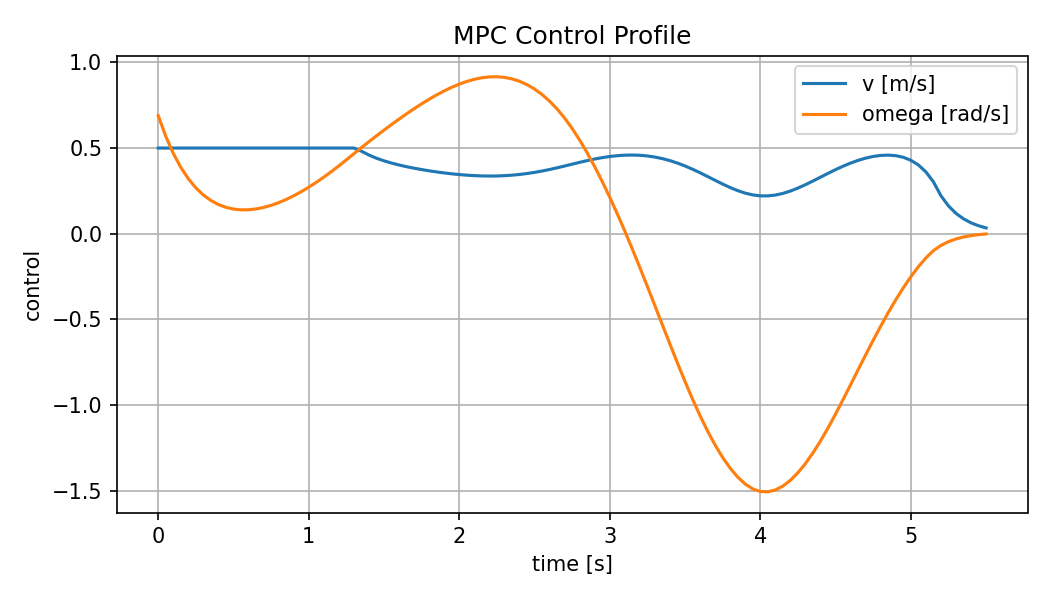
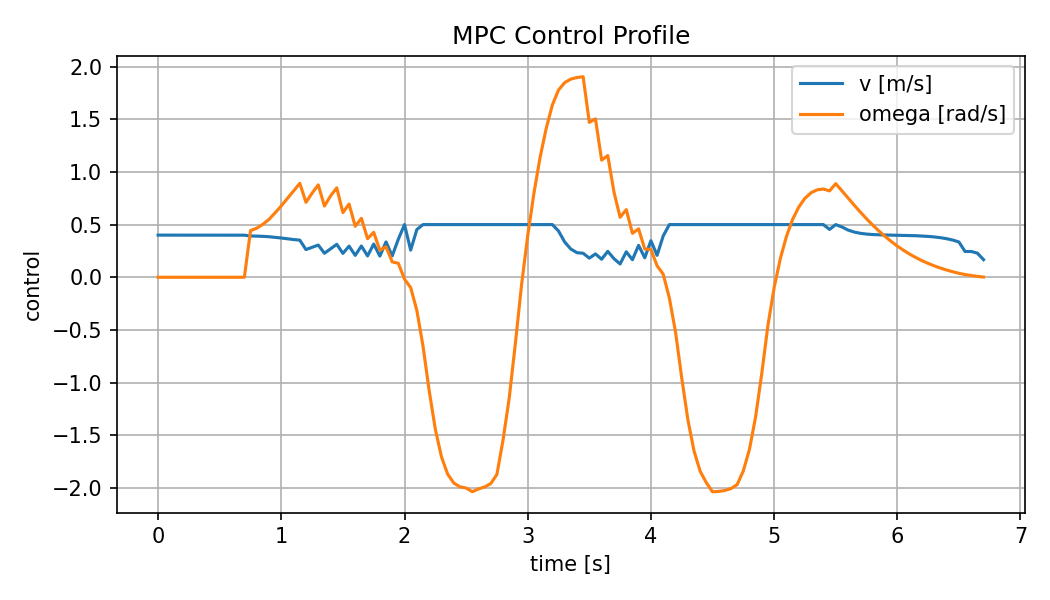
Use straight-line reference for obstacle scenario and fix warm-start naming

diff --git a/src/mpc_controller.py b/src/mpc_controller.py
@@ -33,11 +33,11 @@ class MPCController:
     def __init__(self, config: MPCConfig | None = None):
         self.config = config or MPCConfig()
         self._build_solver()
-        self._state_guess = np.zeros((self.config.horizon + 1, 3))
-        self._control_guess = np.zeros((self.config.horizon, 2))
-        self._obstacle_slack_guess = None
+        self._state_warm = np.zeros((self.config.horizon + 1, 3))
+        self._control_warm = np.zeros((self.config.horizon, 2))
+        self._obstacle_slack_warm = None
         if self.config.obstacles:
-            self._obstacle_slack_guess = np.full(
+            self._obstacle_slack_warm = np.full(
                 (self.config.horizon, len(self.config.obstacles)),
                 (self.config.obstacle_safety_margin + 0.2) ** 2,
             )
@@ -130,6 +130,22 @@ class MPCController:
         self.x0 = x0
         self.x_ref = x_ref
 
+    def _make_state_initial(self, reference_window: np.ndarray) -> np.ndarray:
+        """Build initial state warm-start, perturbed away from obstacles when needed."""
+        initial = reference_window.copy()
+        if not self.config.obstacles:
+            return initial
+        for obs_x, obs_y, obs_radius in self.config.obstacles:
+            safe_radius = obs_radius + self.config.obstacle_safety_margin + 0.02
+            safe_radius_sq = safe_radius**2
+            for i in range(initial.shape[0]):
+                dx = initial[i, 0] - obs_x
+                dy = initial[i, 1] - obs_y
+                if dx**2 + dy**2 < safe_radius_sq:
+                    needed_dy = np.sqrt(max(0.0, safe_radius_sq - dx**2))
+                    initial[i, 1] = obs_y + needed_dy
+        return initial
+
     def solve_step(self, current_state: np.ndarray, reference_window: np.ndarray) -> tuple[np.ndarray, np.ndarray, np.ndarray]:
         """Solve one MPC step.
 
@@ -148,12 +164,11 @@ class MPCController:
 
         self.opti.set_value(self.x0, current_state)
         self.opti.set_value(self.x_ref, reference_window[: cfg.horizon + 1])
-        self.opti.set_initial(self.controls, self._control_guess)
-        # A reference-window state warm start is much more reliable for obstacle
-        # scenes than an all-zero state guess.
-        self.opti.set_initial(self.states, reference_window[: cfg.horizon + 1])
-        if self.obstacle_slacks is not None and self._obstacle_slack_guess is not None:
-            self.opti.set_initial(self.obstacle_slacks, self._obstacle_slack_guess)
+        self.opti.set_initial(self.controls, self._control_warm)
+        state_initial = self._make_state_initial(reference_window[: cfg.horizon + 1])
+        self.opti.set_initial(self.states, state_initial)
+        if self.obstacle_slacks is not None and self._obstacle_slack_warm is not None:
+            self.opti.set_initial(self.obstacle_slacks, self._obstacle_slack_warm)
 
         solution = self.opti.solve()
         optimized_controls = solution.value(self.controls)
@@ -162,10 +177,10 @@ class MPCController:
         first_control = optimized_controls[0]
         next_state = self.step_dynamics(current_state, first_control)
 
-        self._control_guess = np.vstack([optimized_controls[1:], optimized_controls[-1:]])
-        self._state_guess = np.vstack([predicted_states[1:], predicted_states[-1:]])
-        if self.obstacle_slacks is not None and self._obstacle_slack_guess is not None:
+        self._control_warm = np.vstack([optimized_controls[1:], optimized_controls[-1:]])
+        self._state_warm = np.vstack([predicted_states[1:], predicted_states[-1:]])
+        if self.obstacle_slacks is not None and self._obstacle_slack_warm is not None:
             optimized_slacks = solution.value(self.obstacle_slacks)
-            self._obstacle_slack_guess = np.vstack([optimized_slacks[1:], optimized_slacks[-1:]])
+            self._obstacle_slack_warm = np.vstack([optimized_slacks[1:], optimized_slacks[-1:]])
 
         return first_control, next_state, predicted_states

diff --git a/src/demo_tracking.py b/src/demo_tracking.py
@@ -64,16 +64,11 @@ def get_scenario_waypoints(name: str) -> np.ndarray:
                 [1.1, -0.2, 0.0],
             ]
         ),
-        # A guided reference around obstacles improves IPOPT convergence while
-        # the obstacle constraints still enforce collision-free tracking.
+        # Straight-line reference that passes through obstacles.
+        # Obstacle constraints in the MPC controller push the actual path around.
         "obstacle": np.array(
             [
                 [-1.25, 0.0, 0.0],
-                [-0.80, 0.0, 0.0],
-                [-0.45, 0.42, 0.0],
-                [0.0, 0.55, 0.0],
-                [0.45, 0.42, 0.0],
-                [0.80, 0.0, 0.0],
                 [1.25, 0.0, 0.0],
             ]
         ),